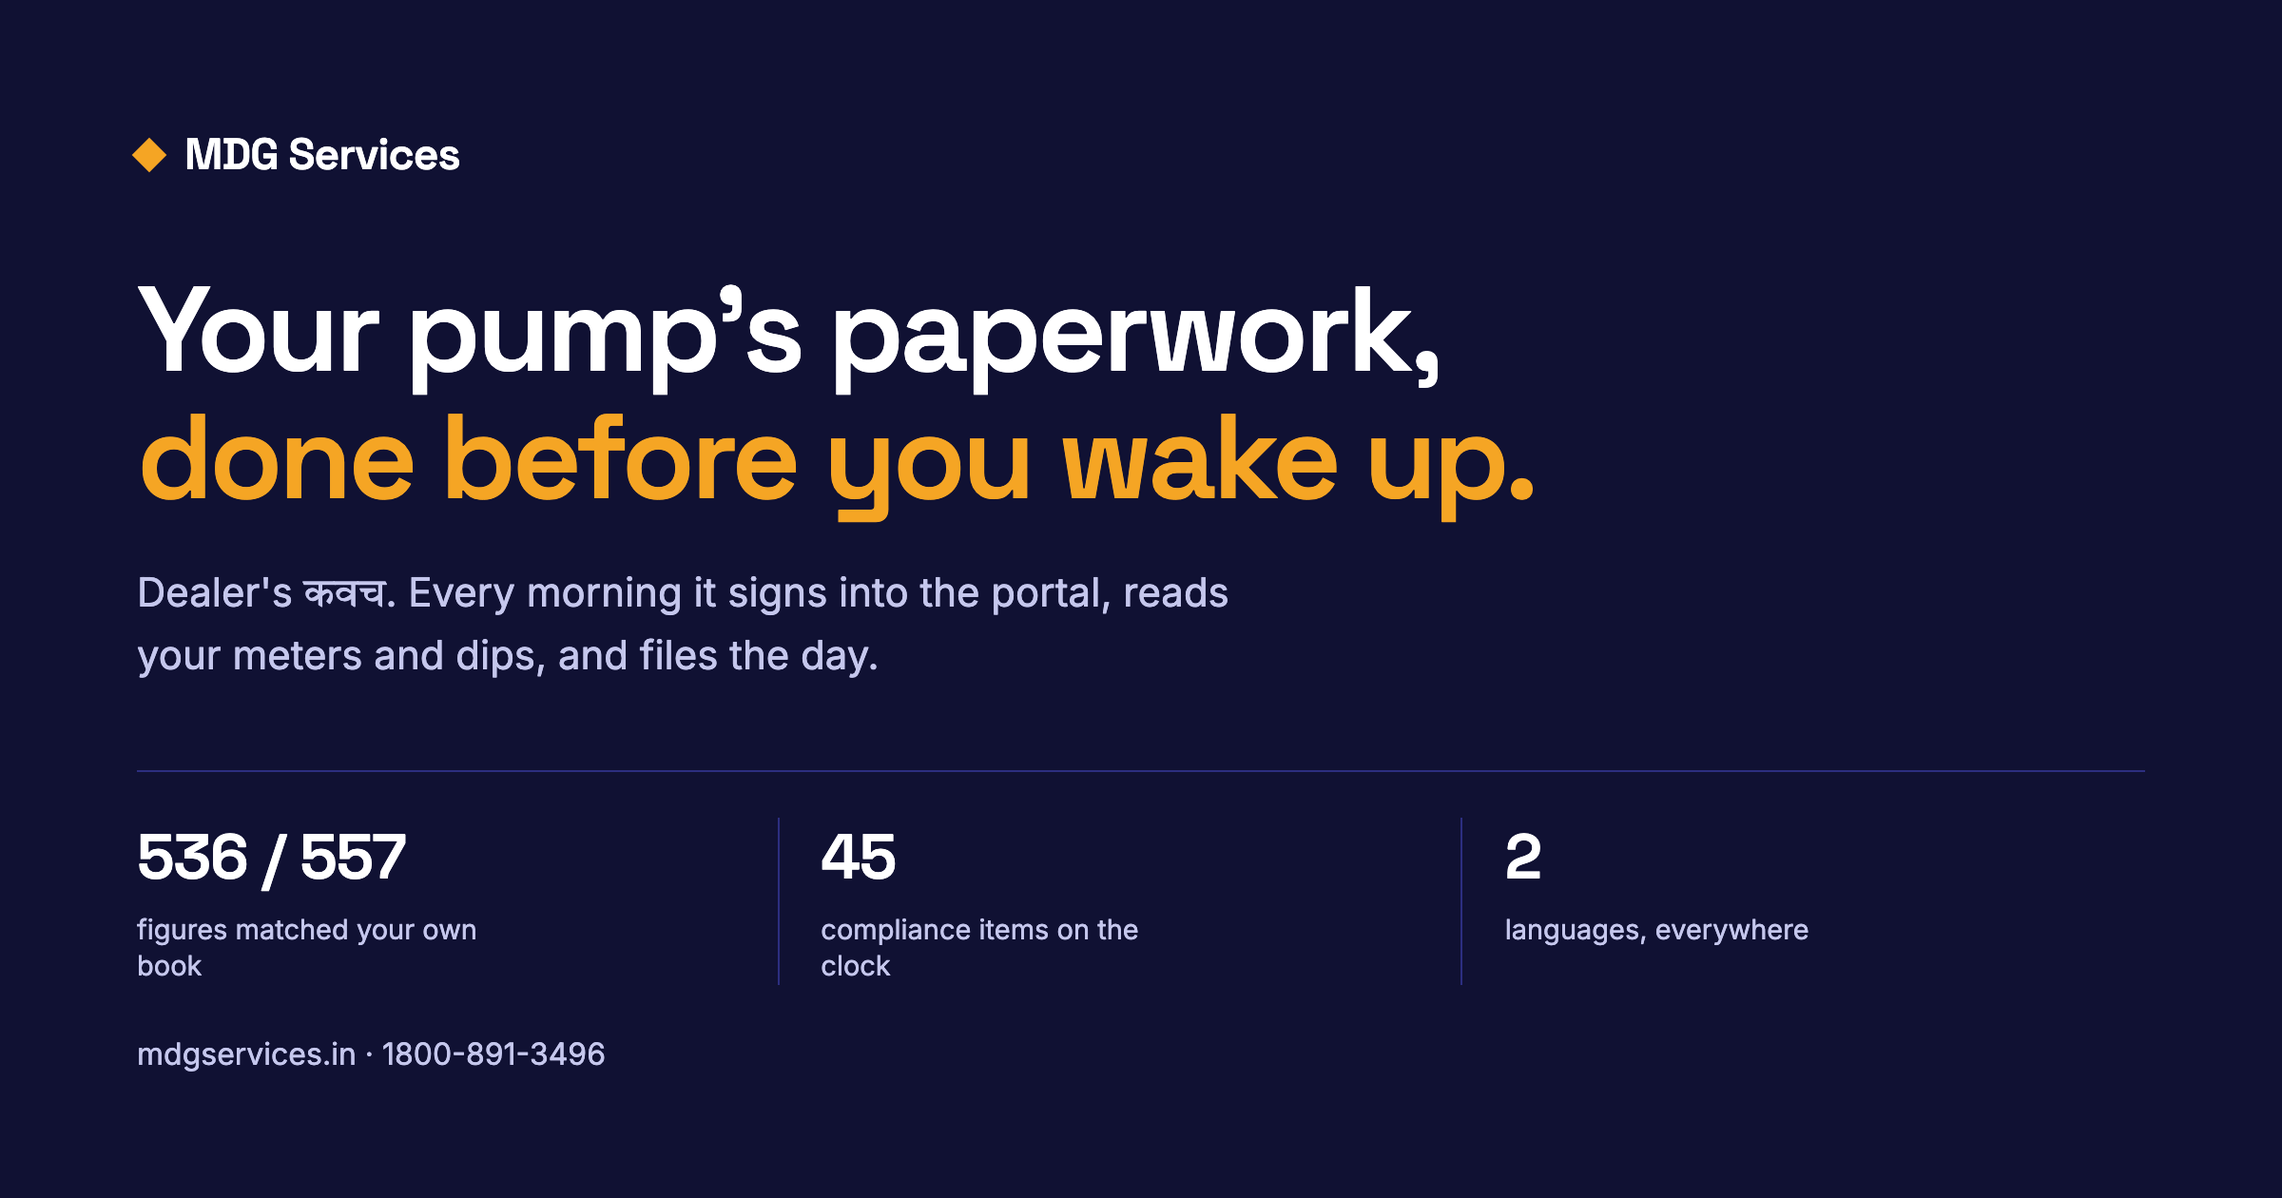
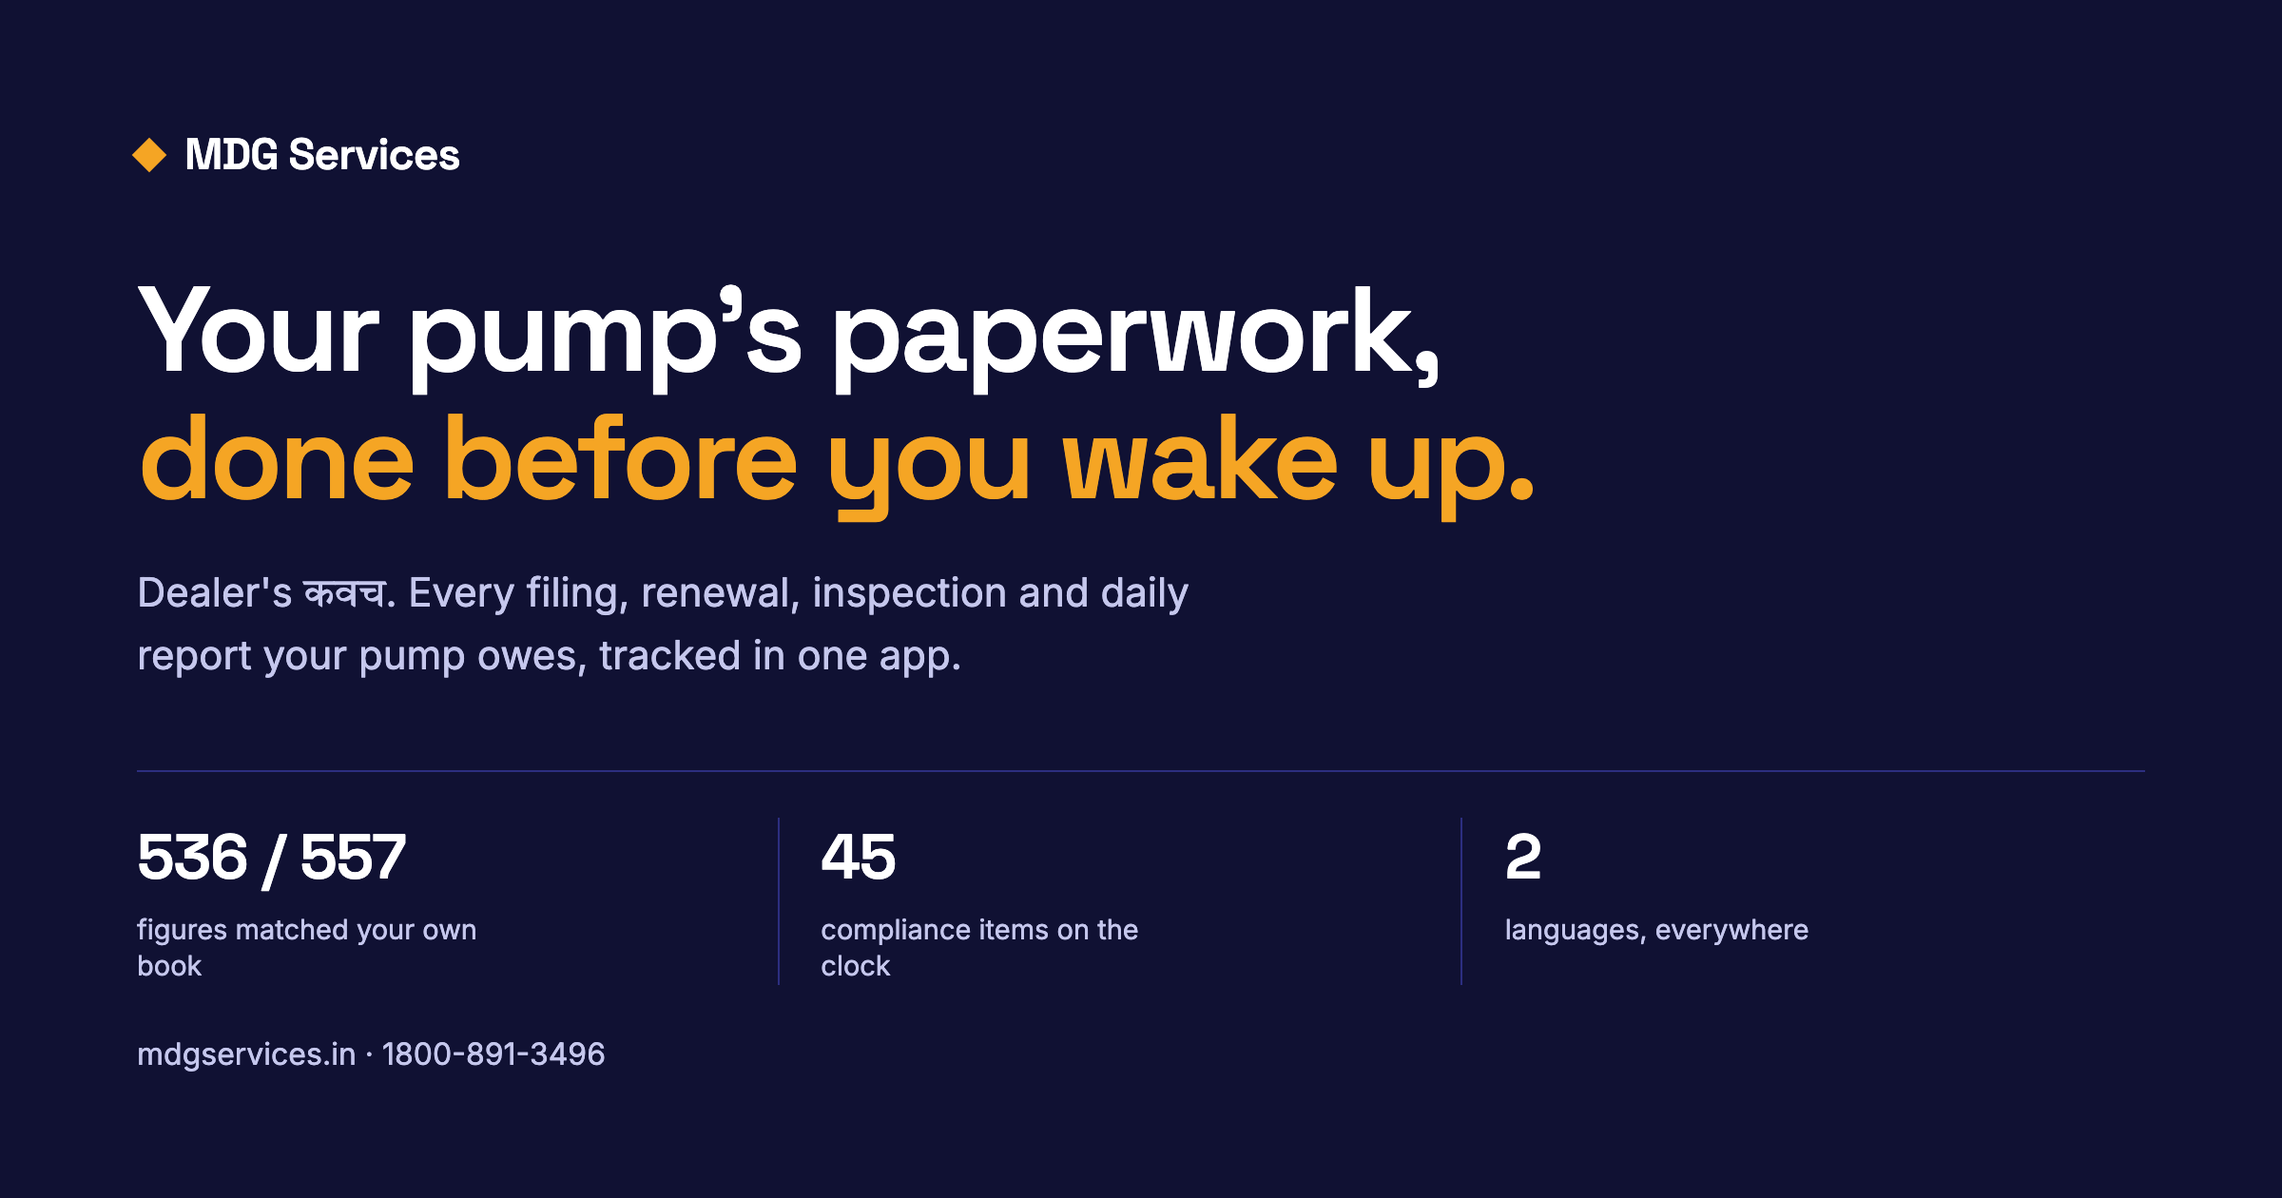
fix(copy): remove method from the public page, and read as a product not a service
The meta description, the og:description and the text baked into og.png all
described how the work is done: signing into the OMC portals, reading meters
and tank dips, rebuilding the day's report. That is operational detail on a
marketing page and it breaks the outcomes-only rule. All three are rewritten
and the social card regenerated.

The service metrics published internal cadence and throughput (~60 entries a
week, a folder every Friday, reconciliation by 11am, response under 30
minutes). Replaced with what the dealer gets.

The rest is positioning: the page read as a back-office firm rather than
software. Nav, hero, the services header, the membership block, the mission
and the onboarding steps now put the app in the subject position. No new
claims, and nothing about the Play listing, which is not live yet.

Changed region(s): [[0.0625, 0.4643, 0.5312, 0.5571]]

diff --git a/src/data/content.ts b/src/data/content.ts
@@ -18,7 +18,7 @@ export const BRAND = {
   hours: "9am to 9pm, every day",
   since: 2021,
   tagline: "Fueling Success",
-  promise: "Your Trusted Partner for Petrol Pump Businesses in India",
+  promise: "Compliance software for India’s petrol pump dealers",
 };
 
 export type Stat = {
@@ -78,7 +78,7 @@ export const SERVICES: Service[] = [
     title: "SDMS Compliance",
     blurb: "Every SDMS entry filed, updated and followed up so your dealership stays in good standing.",
     covers: ["Subsidy", "Work permit", "Safety & Swachhta", "Monthly wages", "Declaration", "DAR automation"],
-    metric: "~60 entries / outlet / week",
+    metric: "Nothing left unfiled",
   },
   {
     id: "mdg",
@@ -88,7 +88,7 @@ export const SERVICES: Service[] = [
     title: "MDG Compliance",
     blurb: "Stock and density watched daily; variation caught before it becomes a notice.",
     covers: ["Stock variation monitoring", "DSR", "Density check", "Toilet upkeep", "Sample inspection"],
-    metric: "Daily variance review",
+    metric: "Variation caught early",
   },
   {
     id: "inspection",
@@ -98,7 +98,7 @@ export const SERVICES: Service[] = [
     title: "Inspection Compliance",
     blurb: "Records, logs and samples kept inspection-ready year-round. Nothing missing when the team arrives.",
     covers: ["Dhruva", "MDT", "QRC", "AAC", "Mobile lab", "DO team"],
-    metric: "Pre-inspection folder, every Friday",
+    metric: "Inspection-ready, always",
   },
   {
     id: "reminder",
@@ -116,9 +116,9 @@ export const SERVICES: Service[] = [
     noDeva: "०५",
     icon: "cpu",
     title: "Automation Support",
-    blurb: "When automation breaks at 9pm on a Sunday, somebody picks up. Diagnosed, vendor-coordinated, compliant.",
+    blurb: "When automation goes down on a Sunday night, it is flagged straight away and tracked until it is back up.",
     covers: ["Fault diagnosis", "Vendor coordination", "Rule-abiding config", "Uptime watch"],
-    metric: "Response under 30 minutes",
+    metric: "Downtime flagged, not discovered",
   },
   {
     id: "webportal",
@@ -128,7 +128,7 @@ export const SERVICES: Service[] = [
     title: "Web Portal Support",
     blurb: "Complaints raised and chased on the right portal, whether nozzle, tank or pipeline. Drills and fillups logged.",
     covers: ["Complaint registering", "Nozzle / tank / pipeline", "Mock drill", "ATR fillups"],
-    metric: "Same-day complaint raising",
+    metric: "Tracked from raised to resolved",
   },
   {
     id: "xtra",
@@ -136,9 +136,9 @@ export const SERVICES: Service[] = [
     noDeva: "०७",
     icon: "gift",
     title: "XTRA Campaign Support",
-    blurb: "XTRA Rewards enrolment and OMC promotional drives executed and reported, without you lifting a finger.",
+    blurb: "XTRA Rewards enrolment and OMC promotional drives, with enrolment and campaign progress visible in one place.",
     covers: ["Customer enrolment", "Promotional activity", "Target chasing", "Campaign reporting"],
-    metric: "Enrolment and reporting, handled",
+    metric: "Enrolment and progress in one place",
   },
   {
     id: "dod",
@@ -148,7 +148,7 @@ export const SERVICES: Service[] = [
     title: "D.O.D & Stock Punctuality",
     blurb: "DOD facility managed, stock-on-hand watched, and the reminders that keep deliveries on time.",
     covers: ["DOD facility management", "Stock monitoring", "Delivery reminders", "Reconciliation"],
-    metric: "Daily reconciliation by 11am",
+    metric: "Yesterday reconciled by morning",
   },
   {
     id: "preparepro",
@@ -158,7 +158,7 @@ export const SERVICES: Service[] = [
     title: "Prepare Pro Manager",
     blurb: "Industry expertise built into your team: leadership, management and the calls that run a pump well.",
     covers: ["Industry expertise", "Leadership development", "Team management", "Decision-making"],
-    metric: "Hands-on coaching",
+    metric: "Built into the team",
   },
 ];
 
@@ -210,13 +210,13 @@ export const STEPS: Step[] = [
   },
   {
     no: "02", noDeva: "०२", when: "Day 2 to 3", icon: "doc",
-    title: "We pick what you need",
-    body: "We propose the exact set of services that fit your dealership. You decide what's in. Pricing is locked in writing.",
+    title: "You pick what you need",
+    body: "Switch on the modules that fit your dealership. You decide what's in. Pricing is locked in writing.",
   },
   {
     no: "03", noDeva: "०३", when: "Day 4 to 7", icon: "shield",
-    title: "We take over the same week",
-    body: "Onboarding within seven days. Old paperwork audited, portals cleaned up, the team takes over.",
+    title: "Live the same week",
+    body: "Onboarding within seven days. Your outlet is live in the app and running the same week.",
   },
 ];
 
@@ -226,8 +226,8 @@ export const FAQS = [
     a: "All three majors, IndianOil, BPCL and HPCL, plus cooperative-grade outlets. Single-pump dealerships and multi-outlet operators are both welcome.",
   },
   {
-    q: "Do I have to switch from my current paperwork team?",
-    a: "No. Most dealers start by handing us one or two problem areas first, then expand once the cycle settles. We run alongside your existing setup during onboarding.",
+    q: "Do I have to change everything at once?",
+    a: "No. Most dealers switch on one or two modules first, then add more once the cycle settles. It runs alongside your existing setup during onboarding.",
   },
   {
     q: "How fast can you start?",
@@ -239,7 +239,7 @@ export const FAQS = [
   },
   {
     q: "How is pricing decided?",
-    a: "Pricing depends on the services you pick, the size of the outlet and the volume of paperwork. It is locked in writing before we start and does not rise mid-contract.",
+    a: "Your subscription depends on the modules you switch on and the size of the outlet. It is locked in writing before you start and does not rise mid-contract.",
   },
   {
     q: "Do you sign an NDA?",

diff --git a/src/components/Membership.tsx b/src/components/Membership.tsx
@@ -5,10 +5,10 @@ import { Reveal, Stagger } from "../lib/motion";
 import { itemUp } from "../lib/anim";
 
 const PROMISES = [
-  { t: "Bespoke", d: "You pick the services. We don't bundle. Your fee depends on what your pump actually needs." },
+  { t: "Modular", d: "You switch on the modules your pump needs. Your subscription covers what it actually uses." },
   { t: "Locked", d: "Pricing is written down before we begin. No surprise fees, no mid-year escalation." },
-  { t: "Limited", d: "We take only as many dealers as we can serve well. Registration closes during overload." },
-  { t: "Lifted", d: "Onboarding within seven days. Old paperwork audited. A difference in the first cycle." },
+  { t: "Checked", d: "Every outlet is set up and checked properly before the next one starts." },
+  { t: "Lifted", d: "Onboarding within seven days. A difference in the first cycle." },
 ];
 
 export default function Membership() {
@@ -30,7 +30,7 @@ export default function Membership() {
                   <span className="absolute inline-flex h-full w-full animate-ping rounded-full bg-gold-400 opacity-75" />
                   <span className="relative inline-flex h-2 w-2 rounded-full bg-gold-400" />
                 </span>
-                Memberships open · selected dealers
+                Subscriptions open · new dealers welcome
               </span>
             </Reveal>
             <Reveal delay={0.06}>
@@ -44,12 +44,12 @@ export default function Membership() {
 
           <Reveal delay={0.12} className="md:col-span-5">
             <p className="max-w-prose2 text-[17px] leading-[1.6] text-navy-100 md:text-[19px]">
-              No tiers. No bundles. Your monthly fee depends on the services you
-              choose, locked in writing before we begin.
+              One monthly subscription, sized to the modules you switch on,
+              priced in writing before you begin.
             </p>
             <div className="mt-8 flex flex-col gap-3 sm:flex-row sm:items-center">
               <Link to="/register" className="btn-gold">
-                Reserve your slot <Icon name="arrow" size={16} />
+                Get started <Icon name="arrow" size={16} />
               </Link>
               <a href="tel:18008913496" className="btn-on-dark-ghost">
                 Call to discuss

diff --git a/index.html b/index.html
@@ -7,7 +7,7 @@
     <meta name="viewport" content="width=device-width, initial-scale=1.0" />
     <meta
       name="description"
-      content="Dealer's कवच by MDG Services, a brand of VRUOOM PRIVATE LIMITED. Every morning our software signs into the oil company's portals, reads your meters and tank dips, and rebuilds your daily sales report and credit position. In Hindi and English. You run the pump."
+      content="Dealer's कवच by MDG Services, a brand of VRUOOM PRIVATE LIMITED. Compliance software for India's petrol pump dealers: every filing, renewal, inspection and daily report kept on track in one app, in Hindi and English. You run the pump."
     />
     <meta name="author" content="VRUOOM PRIVATE LIMITED" />
     <meta name="theme-color" content="#2C2E80" />
@@ -15,7 +15,7 @@
     <meta property="og:site_name" content="MDG Services · VRUOOM PRIVATE LIMITED" />
     <meta
       property="og:description"
-      content="Software that logs into the OMC portals for you, reads your meters and dips, and files the day's paperwork. 536 of 557 figures matched dealers' own handwritten books."
+      content="Compliance software for India's petrol pump dealers. Every deadline, filing and daily report in one app, in Hindi and English. 536 of 557 figures matched dealers' own handwritten books."
     />
     <meta property="og:url" content="https://mdgservices.in/" />
     <meta property="og:image" content="https://mdgservices.in/og.png" />
@@ -36,9 +36,9 @@
       <h1>MDG Services: Dealer's कवच</h1>
       <p>
         MDG Services is a brand of VRUOOM PRIVATE LIMITED (CIN
-        U29194HR2021PTC098450), a company registered in India providing
-        compliance and portal-management services for petrol pump dealers.
-        Website: mdgservices.in
+        U29194HR2021PTC098450), a company registered in India. It
+        builds Dealer's कवच, compliance software for India's petrol pump
+        dealers, in Hindi and English. Website: mdgservices.in
       </p>
     </noscript>
     <script type="module" src="/src/main.tsx"></script>

diff --git a/src/components/Mission.tsx b/src/components/Mission.tsx
@@ -29,11 +29,10 @@ export default function Mission() {
             </Reveal>
             <Reveal delay={0.12}>
               <p className="mt-7 max-w-prose2 text-[16px] leading-[1.65] text-navy-100">
-                MDG Services is a trailblazer in fuel station management,
-                pioneering industry standards since {BRAND.since}. We exist to
-                empower petrol pump owners with tailored solutions that maximize
-                efficiency and profitability. Partnerships built on trust,
-                transparency and mutual success.
+                MDG Services has built software for India’s fuel retail since{" "}
+                {BRAND.since}. Dealer’s कवच exists to give petrol pump owners one
+                place to see every obligation they owe and clear it on time.
+                Built on trust, transparency and mutual success.
               </p>
             </Reveal>
 
@@ -81,7 +80,7 @@ export default function Mission() {
           <div className="mt-16 flex items-start gap-5 border-t border-white/10 pt-8 md:mt-20">
             <Icon name="spark" size={28} className="mt-1 shrink-0 text-gold-400" />
             <p className="font-display text-[20px] font-medium italic leading-snug text-white md:text-[26px]">
-              “Your Trusted Partner in Petrol Pump Excellence.”
+              “One place to see every obligation, and clear it on time.”
             </p>
           </div>
         </Reveal>

diff --git a/src/components/Services.tsx b/src/components/Services.tsx
@@ -11,19 +11,18 @@ export default function Services() {
         <div className="grid items-end gap-8 md:grid-cols-12">
           <div className="md:col-span-8">
             <Reveal>
-              <p className="eyebrow">Program service covers</p>
+              <p className="eyebrow">Inside the app</p>
             </Reveal>
             <Reveal delay={0.06}>
               <h2 className="mt-6 text-balance text-display text-ink" style={{ fontSize: "clamp(33px, 5vw, 64px)" }}>
-                Nine jobs that stop being yours{" "}
-                <span className="text-navy-700">the day we start.</span>
+                Nine jobs the app keeps{" "}
+                <span className="text-navy-700">on track for you.</span>
               </h2>
             </Reveal>
           </div>
           <Reveal delay={0.12} className="md:col-span-4">
             <p className="max-w-prose2 text-[16px] leading-[1.6] text-ink-soft md:text-[17px]">
-              Each cover is sold on its own. Pick what your pump needs, skip
-              what it doesn't.
+              Switch on what your pump needs, leave the rest off.
             </p>
             <p className="mt-4 font-mono text-[11px] uppercase tracking-[0.2em] text-ink-muted">
               <span className="deva text-[15px] normal-case tracking-normal text-navy-700">सेवाएँ</span>

diff --git a/src/components/Hero.tsx b/src/components/Hero.tsx
@@ -41,7 +41,7 @@ export default function Hero() {
           >
             <span className="inline-block h-1.5 w-1.5 rotate-45 bg-gold-400" />
             Dealer's <span className="deva normal-case tracking-normal text-gold-300">कवच</span>
-            <span className="text-white/30">·</span> Est. {BRAND.since}
+            <span className="text-white/30">·</span> The app for petrol pump dealers
           </motion.div>
 
           <h1 className="mt-7 text-mega" style={{ fontSize: "clamp(44px, 7.2vw, 96px)" }}>
@@ -75,9 +75,9 @@ export default function Hero() {
             transition={{ duration: 0.7, ease: EASE, delay: 0.55 }}
             className="mt-8 max-w-xl text-[17px] leading-[1.6] text-navy-100 md:text-[19px]"
           >
-            SDMS, Dhruva, AAC, QRC, inspections, document deadlines. One team
-            absorbs <span className="text-white">every OMC portal headache</span>, so your
-            dealership is never caught short.
+            SDMS, Dhruva, AAC, QRC, inspections, document deadlines. One app
+            keeps <span className="text-white">every OMC portal headache</span> on
+            track, so your dealership is never caught short.
           </motion.p>
 
           <motion.div

diff --git a/src/components/Marquee.tsx b/src/components/Marquee.tsx
@@ -3,10 +3,10 @@ import { TOKENS } from "../data/content";
 export default function Marquee() {
   const row = [...TOKENS, ...TOKENS];
   return (
-    <section aria-label="Portals and registers we manage" className="border-b border-ink-hairline bg-white">
+    <section aria-label="Portals and registers the app covers" className="border-b border-ink-hairline bg-white">
       <div className="wrap-full flex items-center gap-6 py-5 md:gap-10">
         <span className="hidden shrink-0 font-mono text-[11px] uppercase tracking-[0.2em] text-ink-muted sm:block">
-          We live inside
+          Covered in the app
         </span>
         <div className="marquee-track relative flex-1 overflow-hidden [mask-image:linear-gradient(90deg,transparent,#000_8%,#000_92%,transparent)]">
           <div className="marquee gap-3">

diff --git a/src/components/WhyUs.tsx b/src/components/WhyUs.tsx
@@ -17,7 +17,7 @@ export default function WhyUs() {
               <span className="text-navy-700">the keys to the paperwork.</span>
             </>
           }
-          intro="No tiers, no bundles, no run-around. Just the four things every dealer actually wants from a compliance partner."
+          intro="One product, one subscription, no run-around. Just the four things every dealer actually wants from a compliance app."
         />
 
         <Stagger gap={0.08} className="mt-14 grid gap-4 sm:grid-cols-2 md:mt-16 lg:grid-cols-4">

diff --git a/src/components/Navbar.tsx b/src/components/Navbar.tsx
@@ -5,10 +5,10 @@ import Icon from "./Icon";
 import { BRAND } from "../data/content";
 
 const links = [
-  { href: "#services", label: "Services" },
+  { href: "#services", label: "The app" },
   { href: "#why", label: "Why us" },
-  { href: "#process", label: "Process" },
-  { href: "#membership", label: "Membership" },
+  { href: "#process", label: "How it works" },
+  { href: "#membership", label: "Pricing" },
 ];
 
 export default function Navbar() {

diff --git a/src/components/Footer.tsx b/src/components/Footer.tsx
@@ -7,7 +7,7 @@ const explore = [
   { href: "/#services", label: "Services" },
   { href: "/#why", label: "Why us" },
   { href: "/#process", label: "Process" },
-  { href: "/#membership", label: "Membership" },
+  { href: "/#membership", label: "Pricing" },
   { href: "/#contact", label: "Get in touch" },
 ];
 
